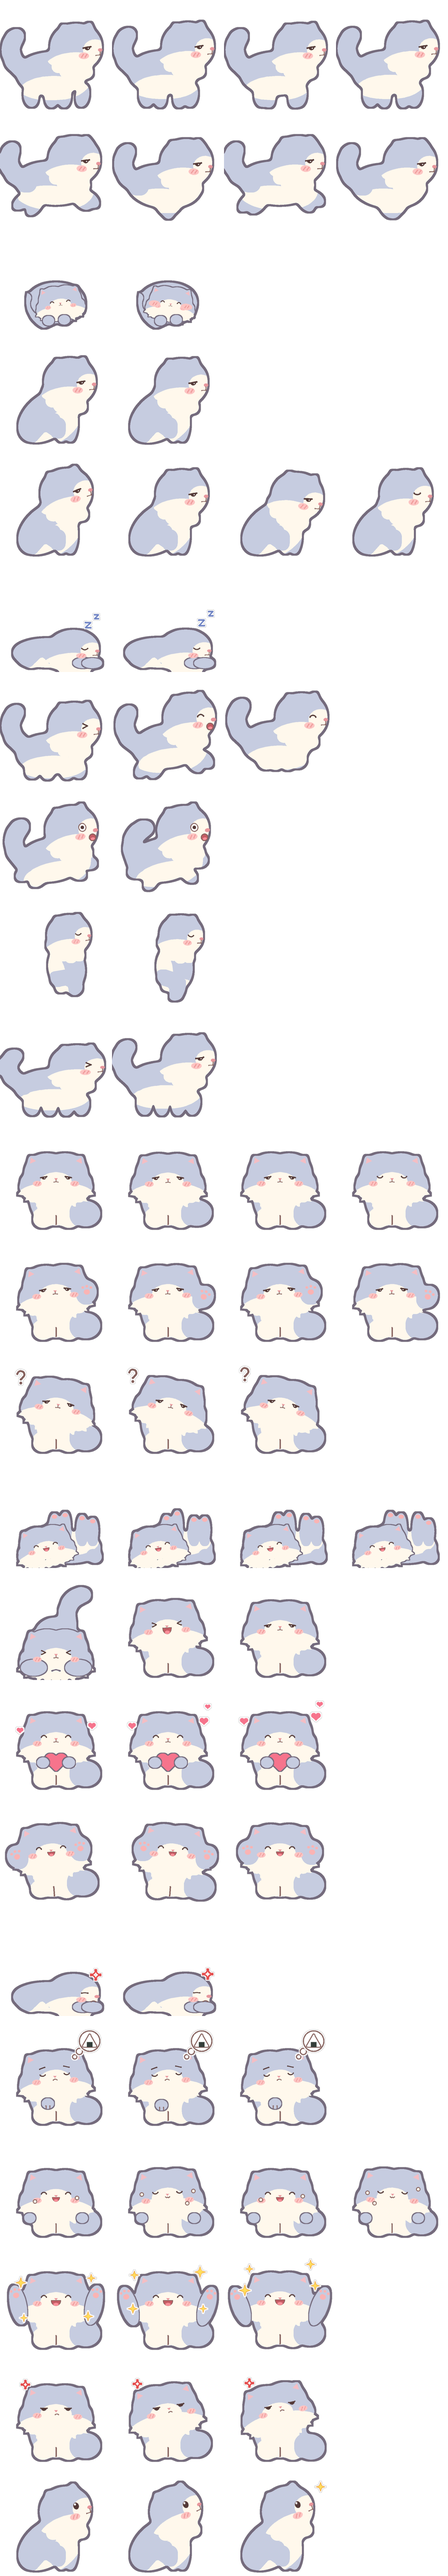
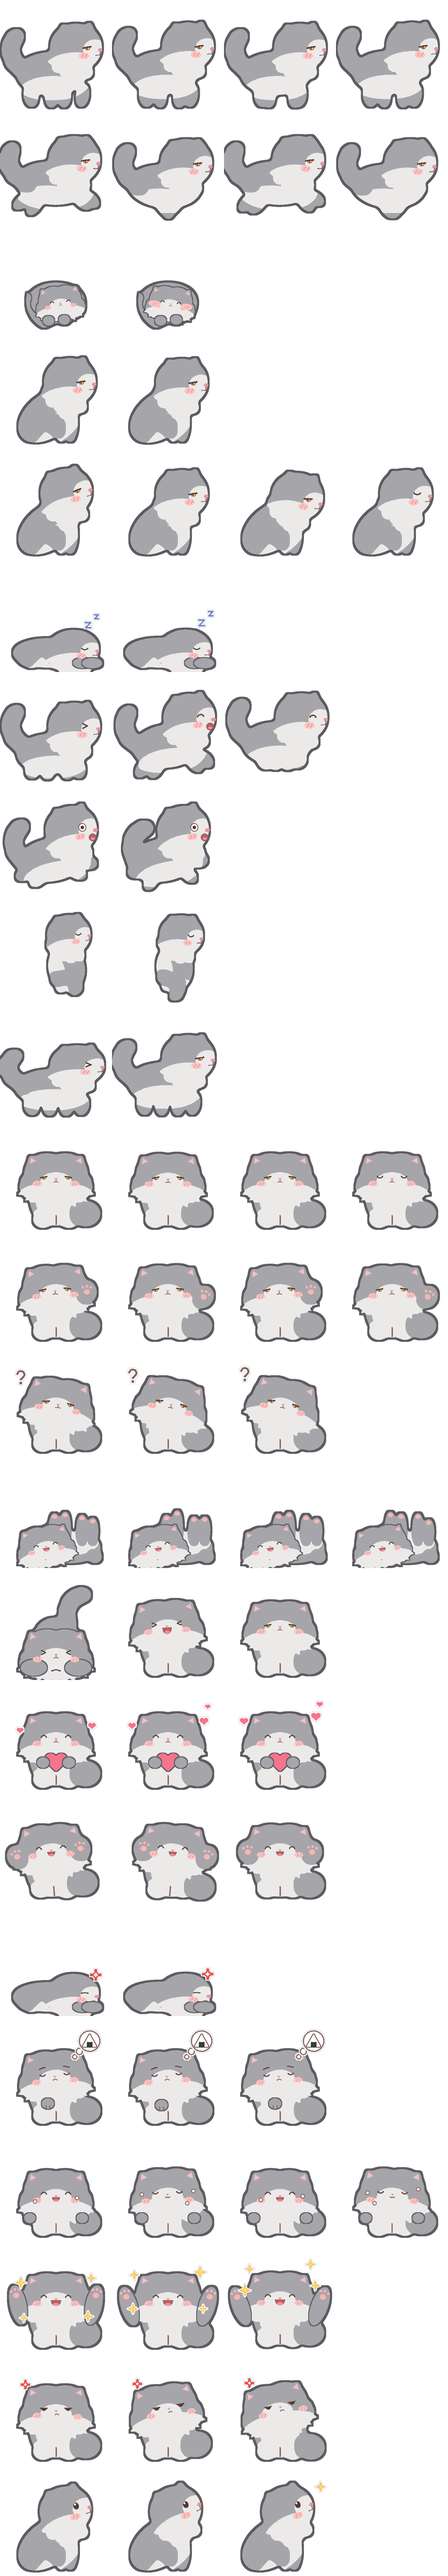
feat(art): grey Persian with copper eyes
Neutral grey coat and a pale grey ruff instead of the sky-blue tint; the sleepy half-open
eyes get a copper iris with a slim pupil (round and pixel), kept out of the baby pastel wash.

Claude-Session: https://claude.ai/code/session_01QTKFeeLBUNBZhj6R6jJCZF

diff --git a/tools/draw_pets.py b/tools/draw_pets.py
@@ -140,7 +140,7 @@ STAGE_PROPS = {
                   pale=0.0, lvl=4, eye=0.92, eye_dy=0.5, sparkle=False, calm=True, smile=False, blush=(0.95, 0.9), ear=1.0,
                   tuft=False, tail=1.0, tail_w=1.22, cheek_fluff=True),
 }
-STAGE_FLAGS = dict(whiskers=False, snout=0.0, chest_fluff=False, sleepy=False)  # 종 특징 기본값 (Species.stage_tweak로 덮어씀)
+STAGE_FLAGS = dict(whiskers=False, snout=0.0, chest_fluff=False, sleepy=False, iris=None)  # 종 특징 기본값 (Species.stage_tweak로 덮어씀)
 _ST = dict(STAGE_PROPS["teenager"], **STAGE_FLAGS)
 
 
@@ -434,8 +434,14 @@ def sleepy_eye(cx, cy, es, flip=False):
     y_in, y_out = cy - ry * lid, cy - ry * lid + 1.4 * es  # 안쪽 끝 · 바깥 끝 (처진 눈꺼풀)
     lid_y = lambda x: y_in + (y_out - y_in) * ((x - cx) * s / rx + 1) / 2
     ball = [(x, max(y, lid_y(x))) for x, y in arc(cx, cy, rx, ry, 0, 360, 48)]
-    ops = [([T(*ball)], EYE)]
-    if _ST["sparkle"]:
+    iris = _ST.get("iris")
+    if iris:
+        # 구릿빛 홍채 + 가운데 짙은 동공 (눈꺼풀 아래로만 — 공과 같은 방법으로 잘라 낸다)
+        ops = [([T(*ball)], EYE), ([T(*[(x, max(y, lid_y(x))) for x, y in arc(cx, cy + 0.2, rx * 0.9, ry * 0.92, 0, 360, 40)])], iris)]
+        ops.append(([T(*[(x, max(y, lid_y(x))) for x, y in arc(cx, cy + ry * 0.2, rx * 0.2, ry * 0.62, 0, 360, 28)])], EYE))  # 가는 세로 동공
+    else:
+        ops = [([T(*ball)], EYE)]
+    if _ST["sparkle"] and not iris:
         ops.append(([E(cx - rx * 0.7, cy + ry * 0.3, cx + rx * 0.7, cy + ry * 0.9)], EYE_LIGHT))
     hx = cx - s * rx * 0.3
     ops.append(([C(hx, lid_y(hx) + 1.8 * es, (0.95 if _ST["sparkle"] else 0.75) * es)], WHITE))
@@ -656,10 +662,11 @@ CAT = Species(
     ],
 )
 
-# 페르시안 고양이: 푸른빛 도는 연회색 긴 털 + 크림색 볼 털·갈기·가슴·발. 넓적한 네모 얼굴(동글 두 개를 겹친 납작한 윗머리),
+# 페르시안 고양이: 회색 긴 털 (사용자: 하늘색 말고 회색) + 밝은 회백색 볼 털·갈기·가슴·발. 넓적한 네모 얼굴(동글 두 개를 겹친 납작한 윗머리),
 # 볼과 턱 아래를 감싼 복슬 갈기(작은 동그라미를 이어 붙여 녹이면 몽글몽글한 가장자리), 털에 반쯤 묻힌 낮고 작은 귀,
 # 눈 사이 높은 작은 코 + 무표정 일자 입(mouth "flat"), 반쯤 감은 졸린 눈(sleepy), 아주 복슬한 꼬리. 느릿느릿 걷는다.
-PER_G, PER_C, PER_IN, PER_LINE = (198, 204, 224), (255, 248, 236), (244, 190, 196), (116, 106, 124)
+PER_G, PER_C, PER_IN, PER_LINE = (166, 166, 170), (236, 234, 232), (244, 190, 196), (92, 90, 96)
+PER_EYE = (222, 132, 46)  # 구릿빛 눈 (회색 페르시안 — 사용자: 눈은 구릿빛으로)
 
 
 def _puffs(pts, r):
@@ -707,7 +714,7 @@ PERSIAN = Species(
                _tufts(86, 68, 24, 15, [55, 80, 105], ln=7)),  # 옆모습: 턱 아래·가슴 앞 갈기 끝만 (목 뒤로는 안 삐져나오게)
     specials=["huff", "lookup"],
     # 모든 단계: 졸린 반눈 · 어린이도 웃지 않는 무표정 · 수염·볼 지그재그 털 없음 (갈기가 대신)
-    stage_tweak={st: dict(sleepy=True, smile=False, cheek_fluff=False, **{"baby": dict(ear=0.85), "kinder": dict(ear=0.9)}.get(st, {}))
+    stage_tweak={st: dict(sleepy=True, iris=PER_EYE, smile=False, cheek_fluff=False, **{"baby": dict(ear=0.85), "kinder": dict(ear=0.9)}.get(st, {}))
                  for st in STAGES},
     outline=PER_LINE,
 )
@@ -1665,7 +1672,7 @@ _NECKS = {}  # (종, 단계) → {동작: [칸별 [x, y, w, r]]} — pet.json ne
 _HEADS = {}  # (종, 단계) → {동작: [칸별 [x, y, w, r]]} — pet.json head  # (종, 단계) → {동작: [프레임]} — 한 프로세스에서 여러 번 build해도 한 번만 그린다
 
 
-_KEEP = {LINE, EYE}  # 파스텔로 바꾸지 않는 색 (외곽선·눈·코)
+_KEEP = {LINE, EYE, PER_EYE}  # 파스텔로 바꾸지 않는 색 (외곽선·눈·코, 페르시안 구릿빛 눈)
 
 
 def _pale(v, t):

diff --git a/tools/test_draw_pets.py b/tools/test_draw_pets.py
@@ -438,6 +438,19 @@ def test_persian_resting_eyes_are_half_closed(anim):
     assert eye_h("persian") < 0.7 * eye_h("cat"), (eye_h("persian"), eye_h("cat"))
 
 
+@pytest.mark.parametrize("anim", ["idle", "sit_front"])
+def test_grey_persian_has_copper_eyes(anim):
+    """사용자: 하늘색 말고 회색, 눈은 구릿빛 — 회색 털 + 졸린 반눈 안에 구릿빛 홍채와 짙은 동공. 고양이 눈엔 구릿빛이 없다."""
+    def near(pid, col, tol=40):
+        px = _one(pid, anim).load()
+        return sum(1 for y in range(FRAME) for x in range(FRAME)
+                   if px[x, y][3] > 200 and sum(abs(px[x, y][i] - col[i]) for i in range(3)) < tol)
+    assert near("persian", draw_pets.PER_EYE, 60) >= 6, near("persian", draw_pets.PER_EYE, 60)
+    assert near("cat", draw_pets.PER_EYE) == 0
+    r, g, b = draw_pets.PER_G
+    assert abs(r - g) <= 6 and abs(g - b) <= 8, "a neutral grey, not sky blue"
+
+
 # 사용자: "옆모습 머리와 다리 사이 목 뒤에 뭔가 볼록 튀어나와 있다" → 옆모습 갈기 털 끝은 목 뒤 윤곽 밖으로 나오지 않는다
 _PER_SIDE = [a for a, _n, _f, _l, front in draw_pets.rows_for(draw_pets.PERSIAN) if not front and a != "roll"]
 

diff --git a/tools/draw_pixel.py b/tools/draw_pixel.py
@@ -173,6 +173,10 @@ def _eye_rows(kind, flip=False):
     n = _PX["grid"].n
     wide = _wide()
     if kind == "dot" and _ST_get("sleepy"):  # 반쯤 감은 졸린 눈 (페르시안): 넓은 눈꺼풀 한 줄 아래 반쪽 눈
+        if _ST_get("iris"):  # 구릿빛 홍채(c) + 짙은 동공(#) + 반짝(o)
+            if _ST_get("sparkle"):
+                return ["####", "c#oc", ".cc."] if n >= 28 else ["###", "c#c"]
+            return ["####", "c#oc"] if wide else ["###", "c#c"]
         if _ST_get("sparkle"):
             return ["####", "o##.", ".#i."] if n >= 28 else ["###", "o#i"]
         return ["####", ".o#."] if wide else ["###", ".#."]
@@ -209,6 +213,8 @@ def stage_eye(kind, cx, cy, flip=False):
     if kind == "up":
         cy -= 2.0
     pal = DARK_EYE_PAL if sum(dp._INK["line"]) < DARK_INK else EYE_PAL
+    if _ST_get("iris"):
+        pal = dict(pal, c=_ST_get("iris"))
     return [([_stamp(cx, cy, _eye_rows(kind, flip), pal)], None)]
 
 

diff --git a/docs/releases/v0.6.2.md b/docs/releases/v0.6.2.md
@@ -1,0 +1,6 @@
+## 💥 콰당! 거대한 돌과 똥, 회색 페르시안
+
+- **💥 콰당!:** 높은 데서 떨어지거나 세게 던져진 펫이 사뿐 내려서지 않고 납작 엎어져요. 머리 위에 💫이 돌고 "oof!" 하다가 일어나요.
+- **🪨💩 거대한 돌·거대한 똥:** 물건 꺼내기에 아기 동물의 15배만 한 거대한 돌과 똥이 생겼어요. 무거워서 바람에도 안 밀리고, 던지면 쿵 떨어져요. 친구에게 던질 수도 있어요 (친구가 예전 버전이면 보통 돌·똥으로 보여요).
+- **🐱 페르시안 고양이:** 하늘빛 털을 회색으로 바꾸고, 구릿빛 눈을 그렸어요.
+- **📬 편지함 (개발자):** 편지마다 "반영함" 체크를 할 수 있어요.
